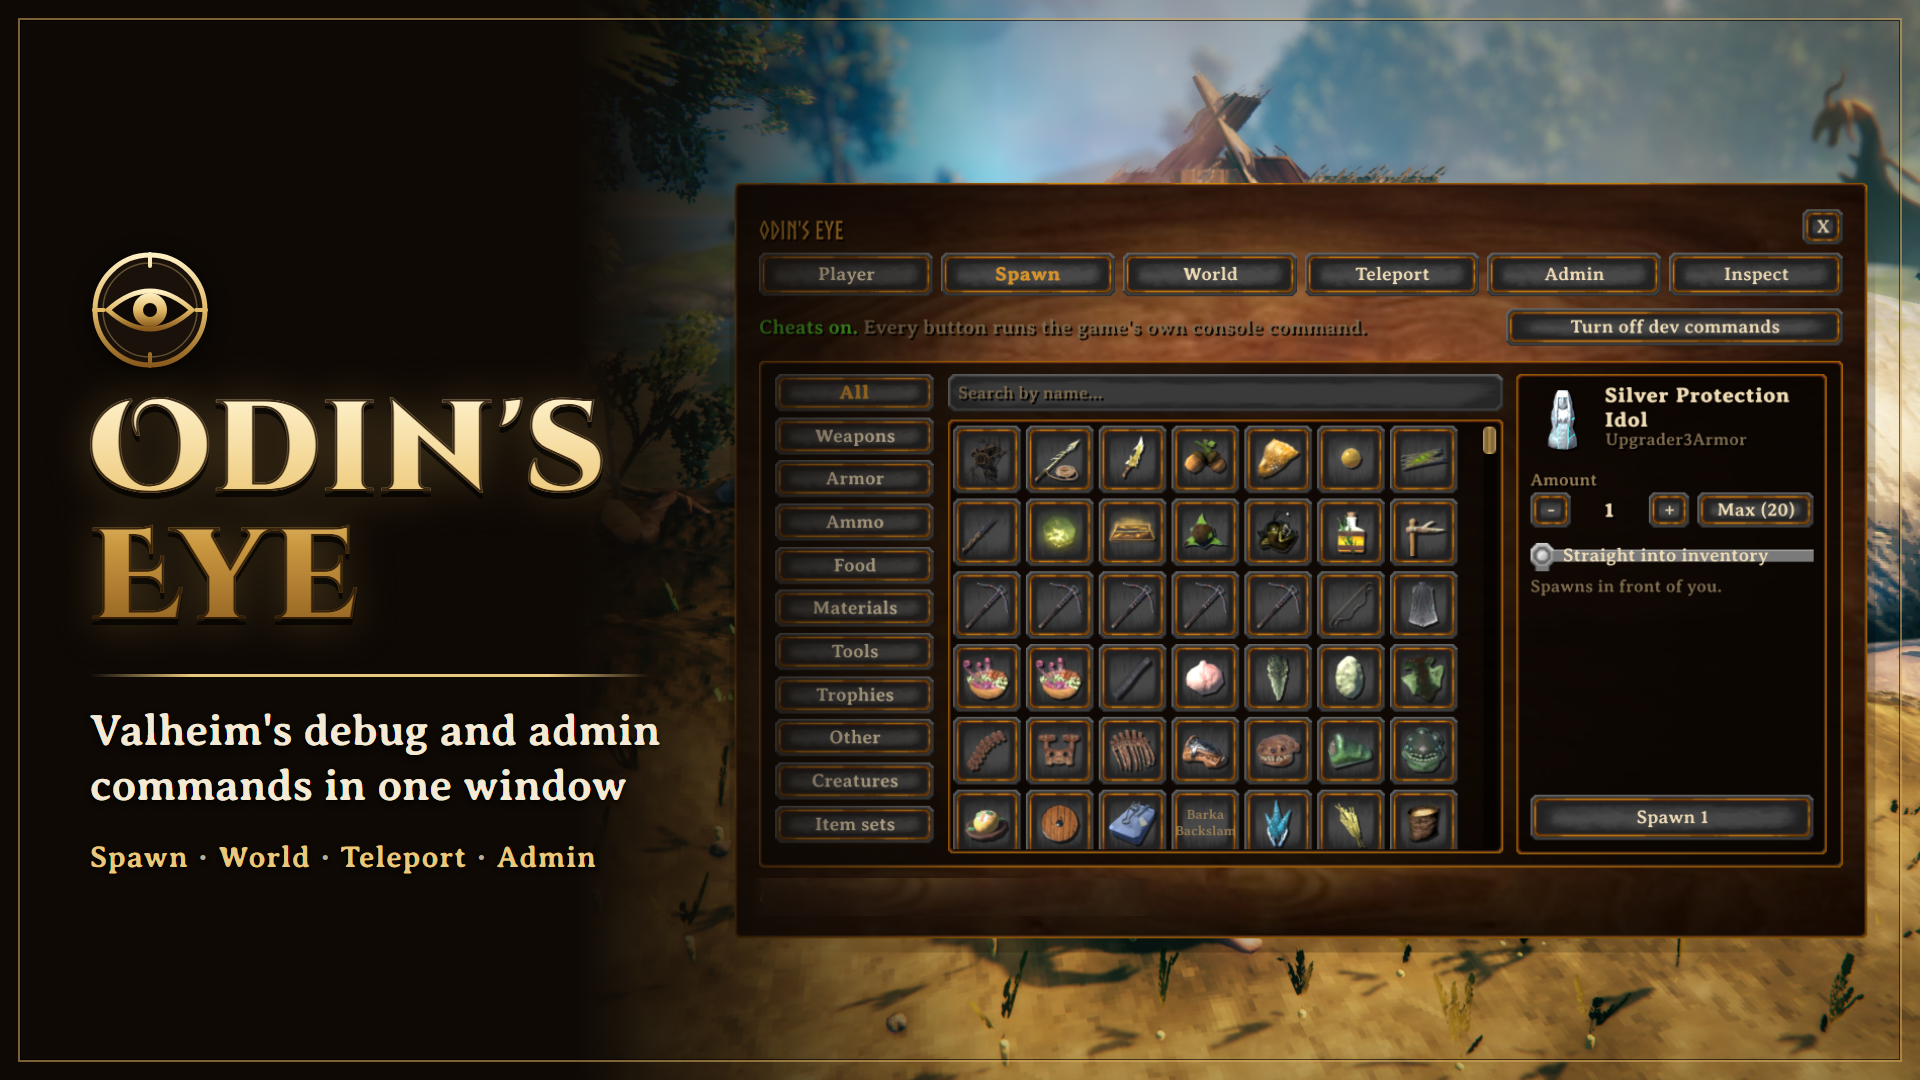
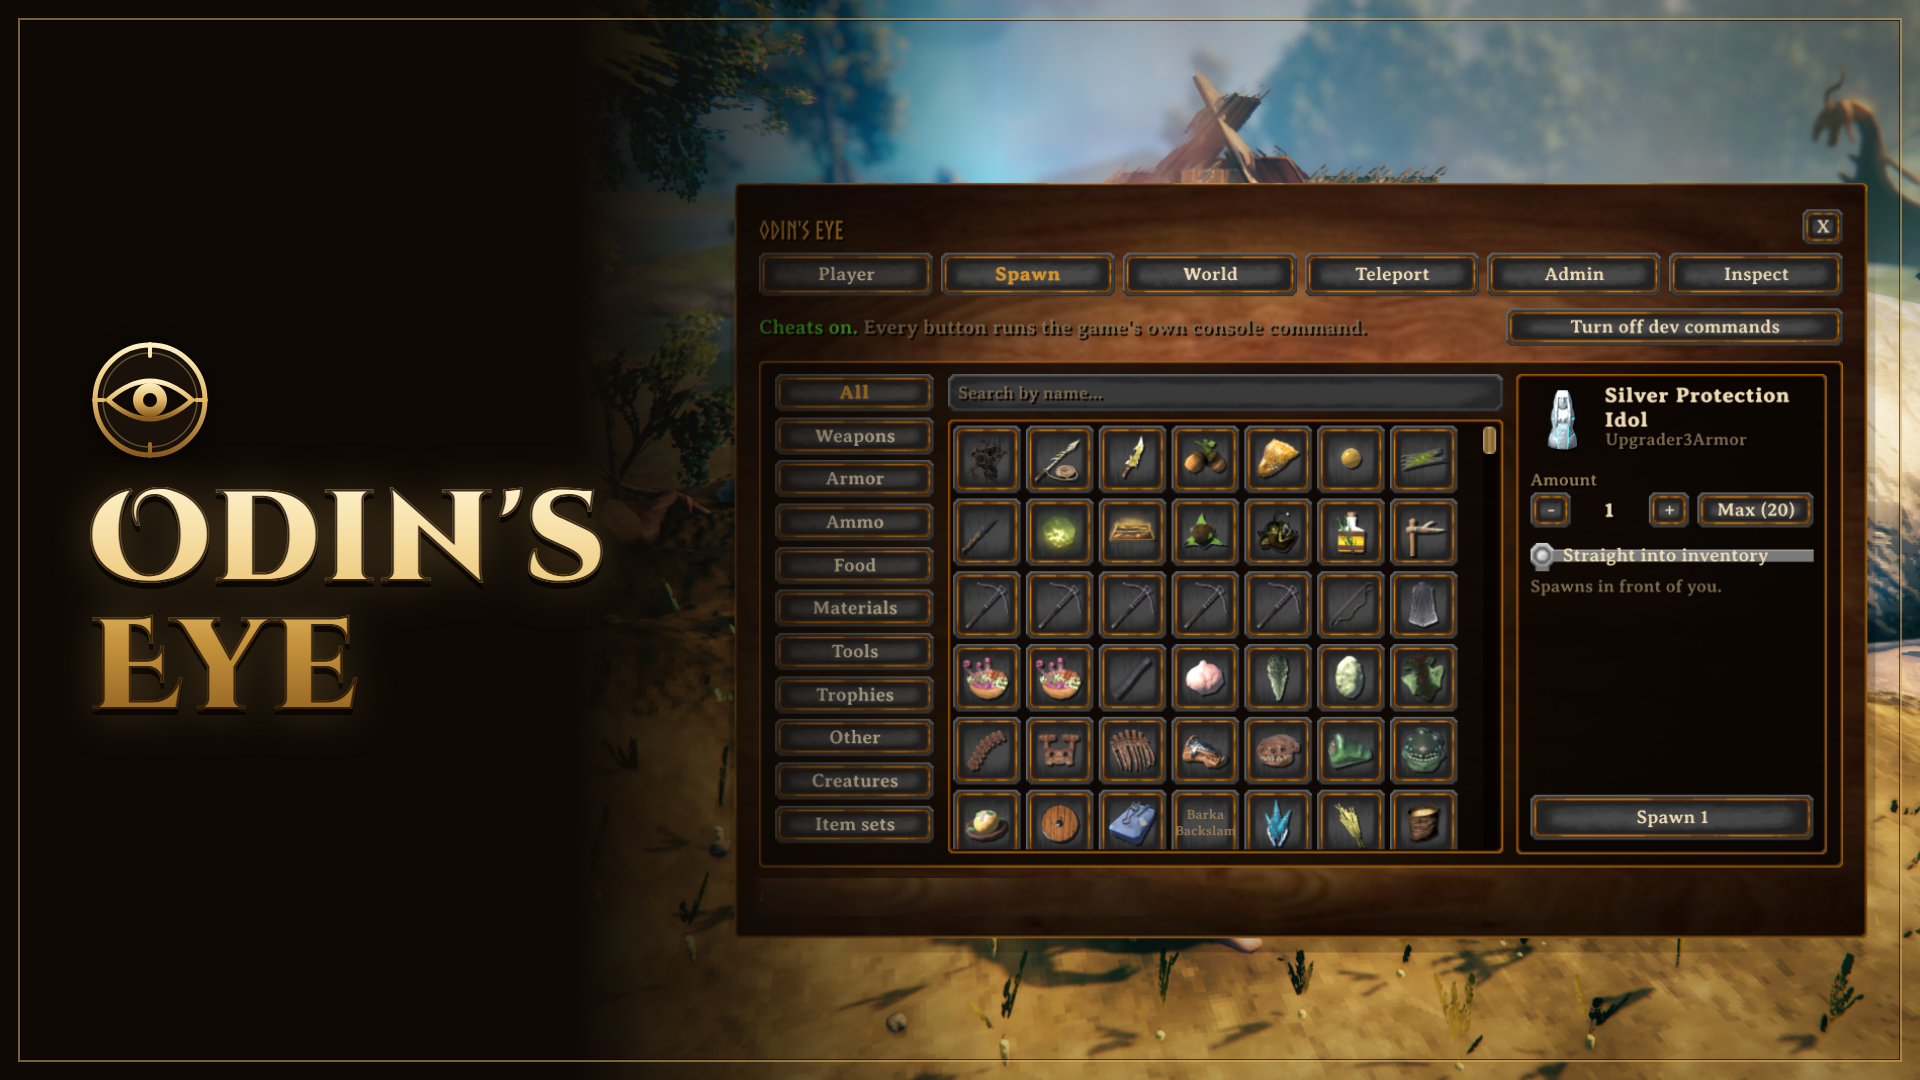
Thumbnail: just the emblem and "Odin's Eye", no tagline

Changed region(s): [[0.0312, 0.2139, 0.3438, 0.825]]

diff --git a/art/thumbnail.html b/art/thumbnail.html
@@ -29,7 +29,7 @@
   }
   /* Thin gold frame like the game's panel edges. */
   .frame { position: absolute; inset: 18px; border: 2px solid rgba(214,170,92,0.55); box-shadow: inset 0 0 0 1px rgba(0,0,0,0.6); }
-  .title-block { position: absolute; left: 90px; top: 250px; width: 720px; }
+  .title-block { position: absolute; left: 90px; top: 340px; width: 720px; }
   .eye { width: 120px; height: 120px; display: block; margin-bottom: 18px; filter: drop-shadow(0 4px 10px rgba(0,0,0,0.8)); }
   h1 {
     margin: 0; font-family: "Cinzel Decorative", serif; font-weight: 900; font-size: 128px; line-height: 1.0;
@@ -69,9 +69,6 @@
       <path d="M60 4 V16 M60 104 V116 M4 60 H14 M106 60 H116" stroke="url(#g)" stroke-width="4" stroke-linecap="round"/>
     </svg>
     <h1>Odin's<br>Eye</h1>
-    <div class="rule"></div>
-    <div class="tagline">Valheim's debug and admin<br>commands in one window</div>
-    <div class="tabs">Spawn<span>·</span>World<span>·</span>Teleport<span>·</span>Admin</div>
   </div>
 </div>
 </body>
